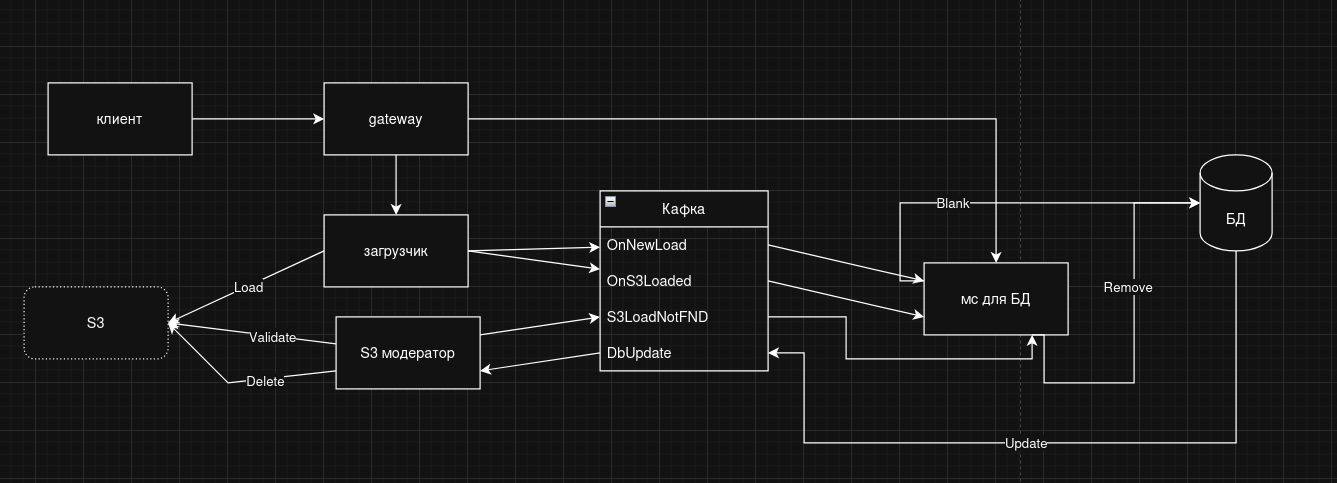
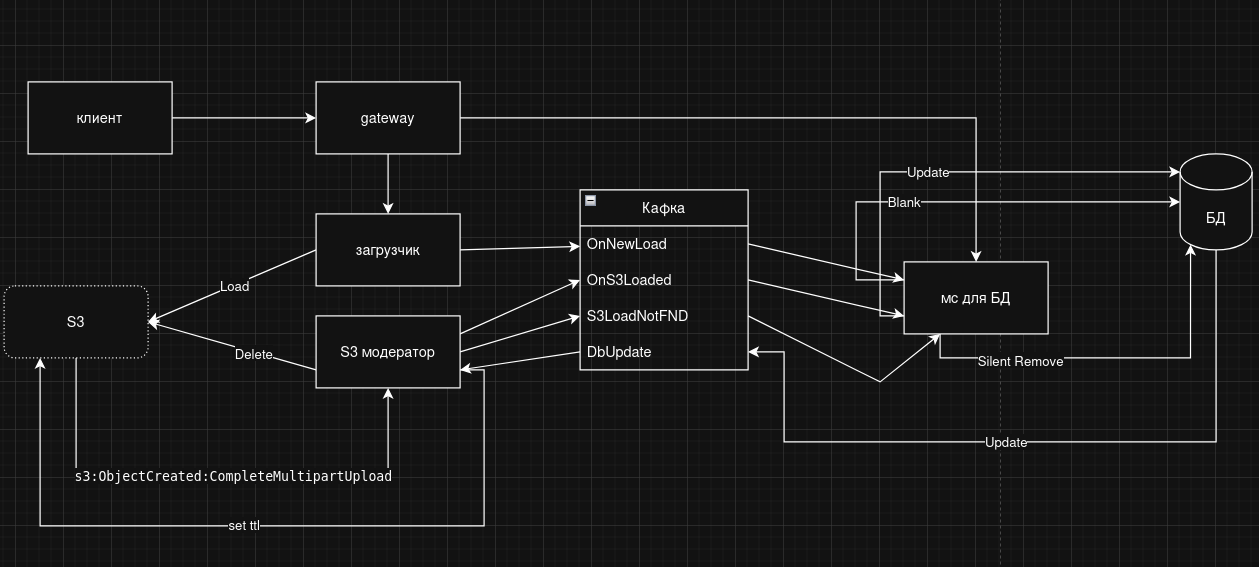
minio events

diff --git a/dbapp/src/main/java/kz/lab/dbapp/config/KafkaConfig.java b/dbapp/src/main/java/kz/lab/dbapp/config/KafkaConfig.java
@@ -7,6 +7,7 @@ import org.apache.kafka.clients.consumer.ConsumerConfig;
 import org.apache.kafka.clients.producer.ProducerConfig;
 import org.apache.kafka.common.serialization.StringDeserializer;
 import org.apache.kafka.common.serialization.StringSerializer;
+import org.springframework.beans.factory.annotation.Value;
 import org.springframework.context.annotation.Bean;
 import org.springframework.context.annotation.Configuration;
 import org.springframework.kafka.annotation.EnableKafka;
@@ -16,37 +17,73 @@ import org.springframework.kafka.core.DefaultKafkaConsumerFactory;
 import org.springframework.kafka.core.DefaultKafkaProducerFactory;
 import org.springframework.kafka.core.KafkaTemplate;
 import org.springframework.kafka.core.ProducerFactory;
+import org.springframework.kafka.listener.DefaultErrorHandler;
 import org.springframework.kafka.support.serializer.ErrorHandlingDeserializer;
 import org.springframework.kafka.support.serializer.JacksonJsonDeserializer;
 import org.springframework.kafka.support.serializer.JacksonJsonSerializer;
+import org.springframework.util.backoff.FixedBackOff;
+
+import kz.lab.dbapp.model.minio.MinioEvent;
+import tools.jackson.databind.ObjectMapper;
 
 @Configuration
 @EnableKafka
 public class KafkaConfig {
+    @Value("${kafka.bootstrap-server}")
+    private String kafkaServer;
+
+    @Value("${kafka.topics.s3-load-events}")
+    private String s3LoadTopic;
+
+    @Value("${kafka.topics.s3-delete-events}")
+    private String s3DeleteTopic;
+
+    private final ObjectMapper objectMapper;
+
+    public KafkaConfig(ObjectMapper objectMapper) {
+        this.objectMapper = objectMapper;
+    }
+
     @Bean
     public ConcurrentKafkaListenerContainerFactory<String, Object> kafkaListenerContainerFactory(
             ConsumerFactory<String, Object> consumerFactory) {
         ConcurrentKafkaListenerContainerFactory<String, Object> factory = new ConcurrentKafkaListenerContainerFactory<>();
         factory.setConsumerFactory(consumerFactory);
+        factory.setCommonErrorHandler(new DefaultErrorHandler((record, exception) -> {
+            System.err.println("Kafka error");
+            System.err.println("Data: " + record.value());
+            System.err.println("Reason: " + exception.getMessage());
+            exception.printStackTrace();
+        }, new FixedBackOff(1000L, 2)));
         return factory;
     }
 
     @Bean
     public ConsumerFactory<String, Object> consumerFactory() {
-        return new DefaultKafkaConsumerFactory<>(consumerProps());
+        JacksonJsonDeserializer<Object> deserializer = new JacksonJsonDeserializer<>(Object.class);
+        deserializer.addTrustedPackages("kz.lab.dbapp.*");
+
+        deserializer.setTypeResolver((topic, data, headers) -> {
+            if (topic.equals(s3LoadTopic) || topic.equals(s3DeleteTopic)) {
+                System.out.println("DEBUG: Incoming topic is: " + topic);
+                return objectMapper.getTypeFactory().constructType(MinioEvent.class);
+            }
+
+            return objectMapper.getTypeFactory().constructType(Object.class);
+        });
+
+        ErrorHandlingDeserializer<Object> errorHandlingDeserializer = new ErrorHandlingDeserializer<>(deserializer);
+
+        return new DefaultKafkaConsumerFactory<>(
+                consumerProps(),
+                new StringDeserializer(),
+                errorHandlingDeserializer);
     }
 
     private Map<String, Object> consumerProps() {
         Map<String, Object> props = new HashMap<>();
-        props.put(ConsumerConfig.BOOTSTRAP_SERVERS_CONFIG, "localhost:9092");
+        props.put(ConsumerConfig.BOOTSTRAP_SERVERS_CONFIG, kafkaServer);
         props.put(ConsumerConfig.GROUP_ID_CONFIG, "db-group");
-        props.put(ConsumerConfig.KEY_DESERIALIZER_CLASS_CONFIG, StringDeserializer.class);
-        props.put(ConsumerConfig.VALUE_DESERIALIZER_CLASS_CONFIG, ErrorHandlingDeserializer.class);
-        props.put(ErrorHandlingDeserializer.VALUE_DESERIALIZER_CLASS, JacksonJsonDeserializer.class);
-
-        props.put("spring.json.trusted.packages", "kz.lab.dbapp.*");
-        props.put(JacksonJsonDeserializer.TYPE_MAPPINGS, "fileLoadEntity:kz.lab.dbapp.entity.FileLoadEntity");
-
         props.put(ConsumerConfig.AUTO_OFFSET_RESET_CONFIG, "earliest");
         return props;
     }
@@ -58,13 +95,12 @@ public class KafkaConfig {
 
     private Map<String, Object> senderProps() {
         Map<String, Object> props = new HashMap<>();
-        props.put(ProducerConfig.BOOTSTRAP_SERVERS_CONFIG, "localhost:9092");
+        props.put(ProducerConfig.BOOTSTRAP_SERVERS_CONFIG, kafkaServer);
         props.put(ProducerConfig.LINGER_MS_CONFIG, 10);
         props.put(ProducerConfig.KEY_SERIALIZER_CLASS_CONFIG, StringSerializer.class);
         props.put(ProducerConfig.VALUE_SERIALIZER_CLASS_CONFIG, JacksonJsonSerializer.class);
         props.put(JacksonJsonSerializer.ADD_TYPE_INFO_HEADERS, true);
-        props.put(JacksonJsonSerializer.TYPE_MAPPINGS, "fileLoadEntity:kz.lab.dbapp.entity.FileLoadEntity");
-        
+
         return props;
     }
 

diff --git a/dbapp/src/main/java/kz/lab/dbapp/service/MinioNotificationListener.java b/dbapp/src/main/java/kz/lab/dbapp/service/MinioNotificationListener.java
@@ -1,0 +1,37 @@
+package kz.lab.dbapp.service;
+
+import org.apache.kafka.clients.consumer.ConsumerRecord;
+import org.springframework.kafka.annotation.KafkaListener;
+import org.springframework.stereotype.Service;
+
+import kz.lab.dbapp.exception.KafkaException;
+import kz.lab.dbapp.model.minio.MinioEvent;
+import lombok.RequiredArgsConstructor;
+import lombok.extern.slf4j.Slf4j;
+
+@Slf4j
+@Service
+@RequiredArgsConstructor
+public class MinioNotificationListener {
+    @KafkaListener(topics = "${kafka.topics.s3-load-events}", containerFactory = "kafkaListenerContainerFactory", groupId = "load-minio-listeners")
+    public void handleUploads(ConsumerRecord<String, MinioEvent> record) throws KafkaException {
+        MinioEvent event = record.value();
+        if (event.getRecords() != null && !event.getRecords().isEmpty()) {
+            String fileName = event.getRecords().get(0).getS3().getObject().getKey();
+            log.info("Loaded file: {}", fileName);
+        } else {
+            throw new KafkaException("Failed to parse kafka message");
+        }
+    }
+
+    @KafkaListener(topics = "${kafka.topics.s3-delete-events}", containerFactory = "kafkaListenerContainerFactory", groupId = "delete-minio-listeners")
+    public void handleLifecycle(ConsumerRecord<String, MinioEvent> record) throws KafkaException {
+        MinioEvent event = record.value();
+        if (event.getRecords() != null && !event.getRecords().isEmpty()) {
+            String fileName = event.getRecords().get(0).getS3().getObject().getKey();
+            log.info("Deleted file: {}", fileName);
+        } else {
+            throw new KafkaException("Failed to parse kafka message");
+        }
+    }
+}

diff --git a/dbapp/src/main/java/kz/lab/dbapp/model/minio/MinioEvent.java b/dbapp/src/main/java/kz/lab/dbapp/model/minio/MinioEvent.java
@@ -1,0 +1,27 @@
+package kz.lab.dbapp.model.minio;
+
+import java.util.List;
+
+import com.fasterxml.jackson.annotation.JsonIgnoreProperties;
+import com.fasterxml.jackson.annotation.JsonProperty;
+
+import lombok.AllArgsConstructor;
+import lombok.Data;
+import lombok.Getter;
+import lombok.NoArgsConstructor;
+
+@Data
+@Getter
+@NoArgsConstructor
+@AllArgsConstructor
+@JsonIgnoreProperties(ignoreUnknown = true)
+public class MinioEvent {
+    @JsonProperty("EventName")
+    private String eventName;
+
+    @JsonProperty("Key")
+    private String key;
+
+    @JsonProperty("Records")
+    private List<MinioRecord> records;
+}

diff --git a/dbapp/src/main/java/kz/lab/dbapp/model/minio/MinioRecord.java b/dbapp/src/main/java/kz/lab/dbapp/model/minio/MinioRecord.java
@@ -1,0 +1,17 @@
+package kz.lab.dbapp.model.minio;
+
+import com.fasterxml.jackson.annotation.JsonIgnoreProperties;
+
+import lombok.Data;
+import lombok.Getter;
+import lombok.NoArgsConstructor;
+
+@Data
+@NoArgsConstructor
+@JsonIgnoreProperties(ignoreUnknown = true)
+@Getter
+public class MinioRecord {
+    private String eventName; // например s3:ObjectCreated:Put
+    private String eventTime;
+    private S3Dto s3;
+}

diff --git a/dbapp/src/main/java/kz/lab/dbapp/model/minio/S3Dto.java b/dbapp/src/main/java/kz/lab/dbapp/model/minio/S3Dto.java
@@ -1,0 +1,14 @@
+package kz.lab.dbapp.model.minio;
+
+import com.fasterxml.jackson.annotation.JsonIgnoreProperties;
+
+import lombok.Data;
+import lombok.Getter;
+
+@Data
+@Getter
+@JsonIgnoreProperties(ignoreUnknown = true)
+public class S3Dto {
+    private BucketDto bucket;
+    private ObjectDataDto object;
+}

diff --git a/dbapp/src/main/java/kz/lab/dbapp/model/minio/ObjectDataDto.java b/dbapp/src/main/java/kz/lab/dbapp/model/minio/ObjectDataDto.java
@@ -1,0 +1,14 @@
+package kz.lab.dbapp.model.minio;
+
+import com.fasterxml.jackson.annotation.JsonIgnoreProperties;
+
+import lombok.Data;
+import lombok.Getter;
+
+@Data
+@Getter
+@JsonIgnoreProperties(ignoreUnknown = true)
+public class ObjectDataDto {
+    private String key;
+    private Long size;
+}

diff --git a/dbapp/src/main/java/kz/lab/dbapp/model/minio/BucketDto.java b/dbapp/src/main/java/kz/lab/dbapp/model/minio/BucketDto.java
@@ -1,0 +1,11 @@
+package kz.lab.dbapp.model.minio;
+
+import com.fasterxml.jackson.annotation.JsonIgnoreProperties;
+
+import lombok.Data;
+
+@Data
+@JsonIgnoreProperties(ignoreUnknown = true)
+public class BucketDto {
+    private String name;
+}
